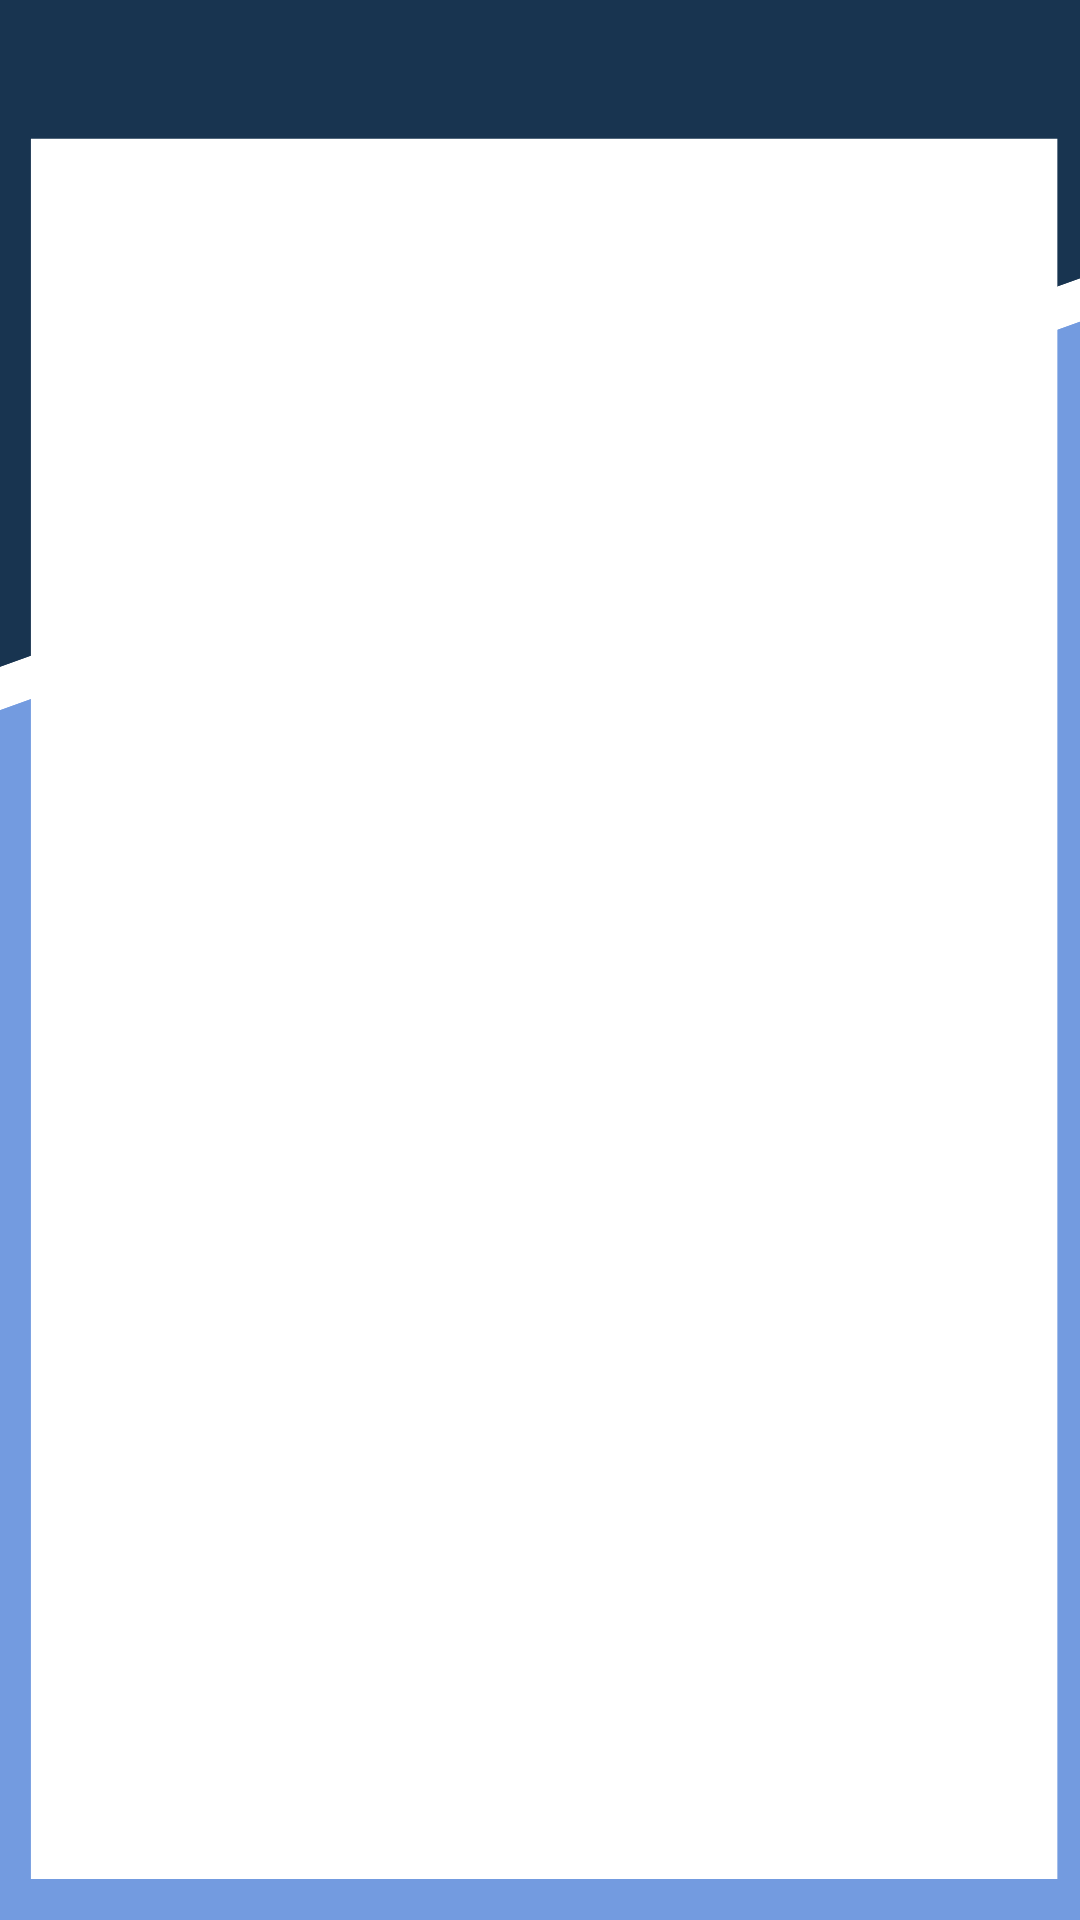
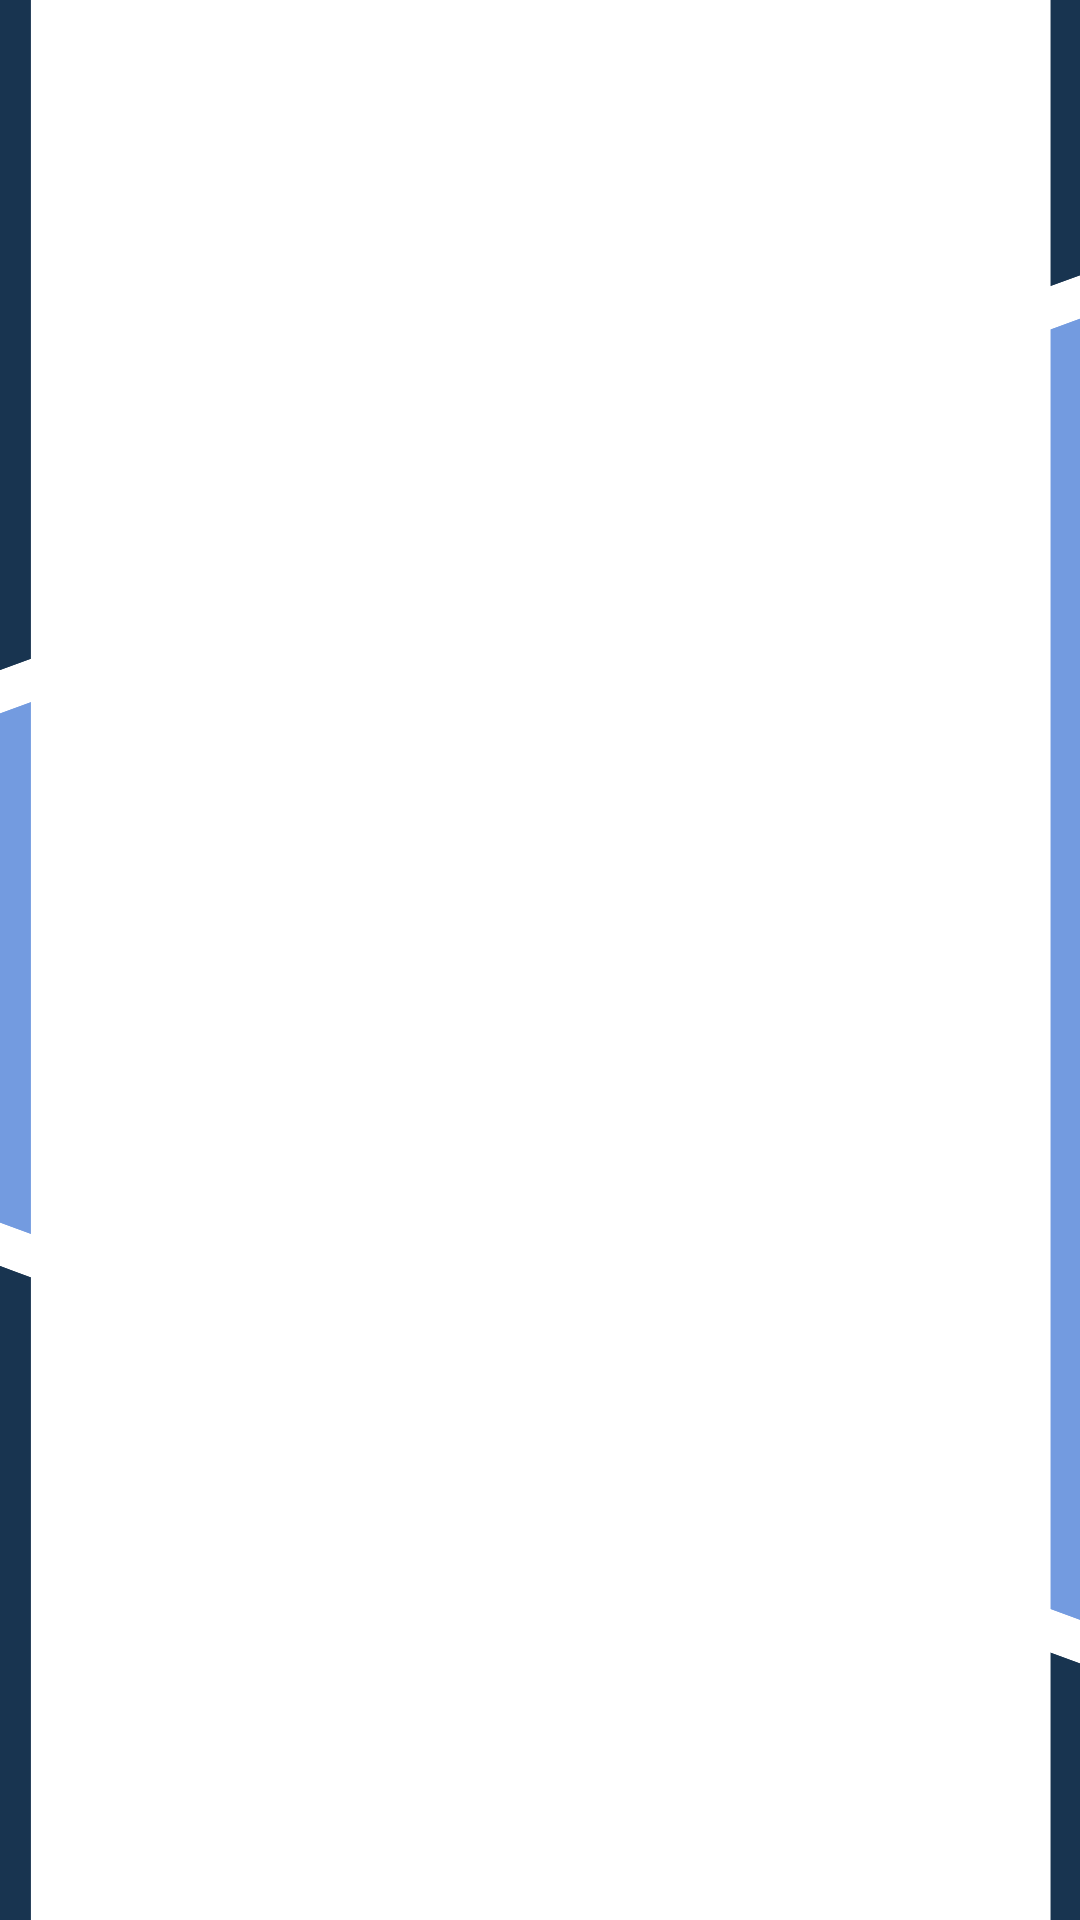
project page updates

Changed region(s): [[0.0306, 0.0, 1.0, 0.1562], [0.0, 0.1875, 1.0, 1.0], [0.0, 0.3438, 0.0306, 0.375]]

diff --git a/styles.css b/styles.css
@@ -22,8 +22,9 @@
 
 .project-body {
     background-image: url("././images/mobile/background-mobile-projects.png");
-    background-repeat: no-repeat;
-    background-size: cover;
+    background-repeat: repeat-y;
+    background-size: 100%;
+    background-position:top;
 }
 
 #hero {
@@ -65,7 +66,8 @@ header {
 nav {
     background-color: #fff;
     opacity: 80%;
-    margin: 3% -2% 0 -2%;
+    margin: 3% -3% 0 -3%;
+    border: 2px solid #183450;
     justify-content: center;
     text-align: center;
     padding: 2%;
@@ -144,12 +146,15 @@ img {
 }
 
 #projects h1 {
-    font-family: 'Fira Code', monospace;
+    display:flex;
+    justify-content: center;
+    font-family: 'Euphoria Script', cursive;
     color: #183450;
-    font-size: 1.1em;
-    font-weight: 300;
+    font-size: 2.2em;
+    font-weight: 500;
     text-align: center;
-    margin-bottom: 2%;
+    margin-top: 0;
+    margin-bottom: 5%;
 }
 
 #projects p {
@@ -172,7 +177,9 @@ img {
 
 .projects {
     border: 1px solid #183450;
-    padding-bottom: 5%;
+    padding: 3% 3% 5% 3%;
+
+    margin-bottom: 2%;
 }
 
 .thumb {

diff --git a/projects.html b/projects.html
@@ -10,14 +10,16 @@
     <link href="https://fonts.googleapis.com/css2?family=Euphoria+Script&family=Fira+Code:wght@300;500;700&display=swap" rel="stylesheet">
 </head>
 <body class="project-body">
-    <header>
-        <nav>
-            <a href="about.html">About</a>
-            <a href="stack.html">Stack</a>
-            <a class="selected" href="projects.html">Projects</a>
-            <a href="blog.html">Blog</a>
-            <a href="contact.html">Contact</a>
-        </nav>
+    <header id="projects-header">
+        <div id="navbar">
+            <nav>
+                <a href="about.html">About</a>
+                <a href="stack.html">Stack</a>
+                <a class="selected" href="projects.html">Projects</a>
+                <a href="blog.html">Blog</a>
+                <a href="contact.html">Contact</a>
+            </nav>
+        </div>
     </header>
     <main id="projects">
         <div id="projects-intro">
